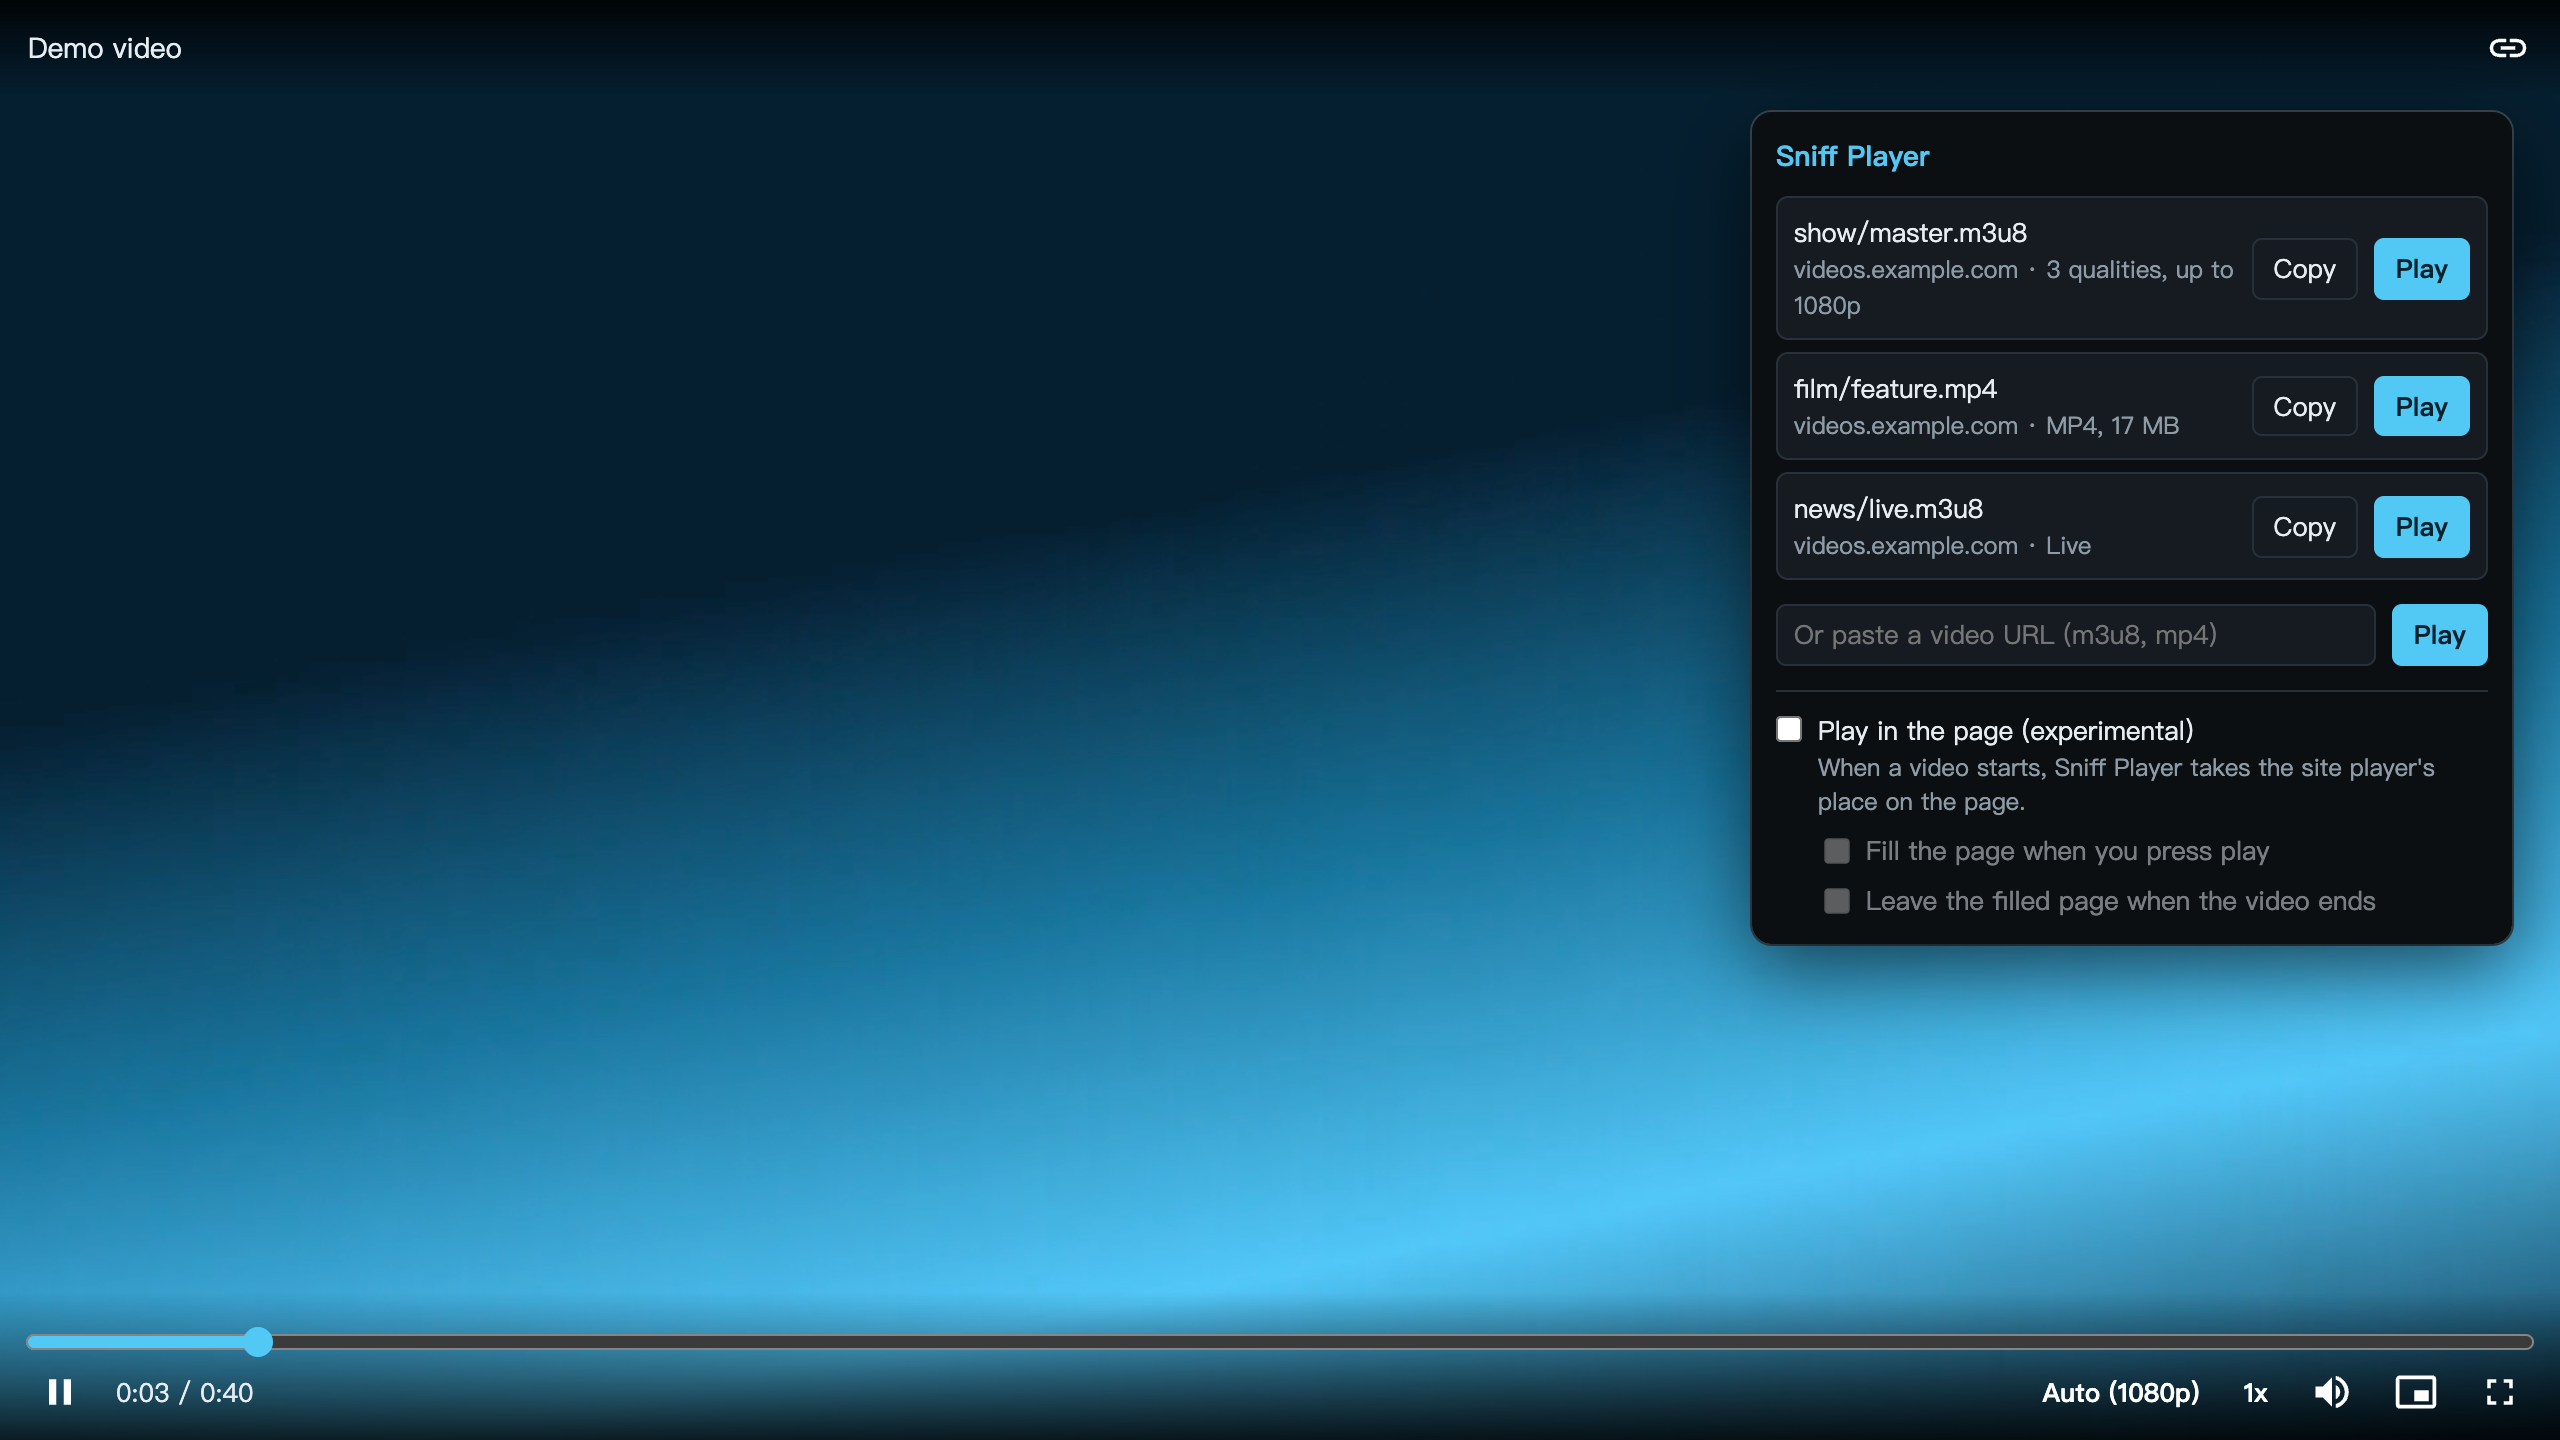
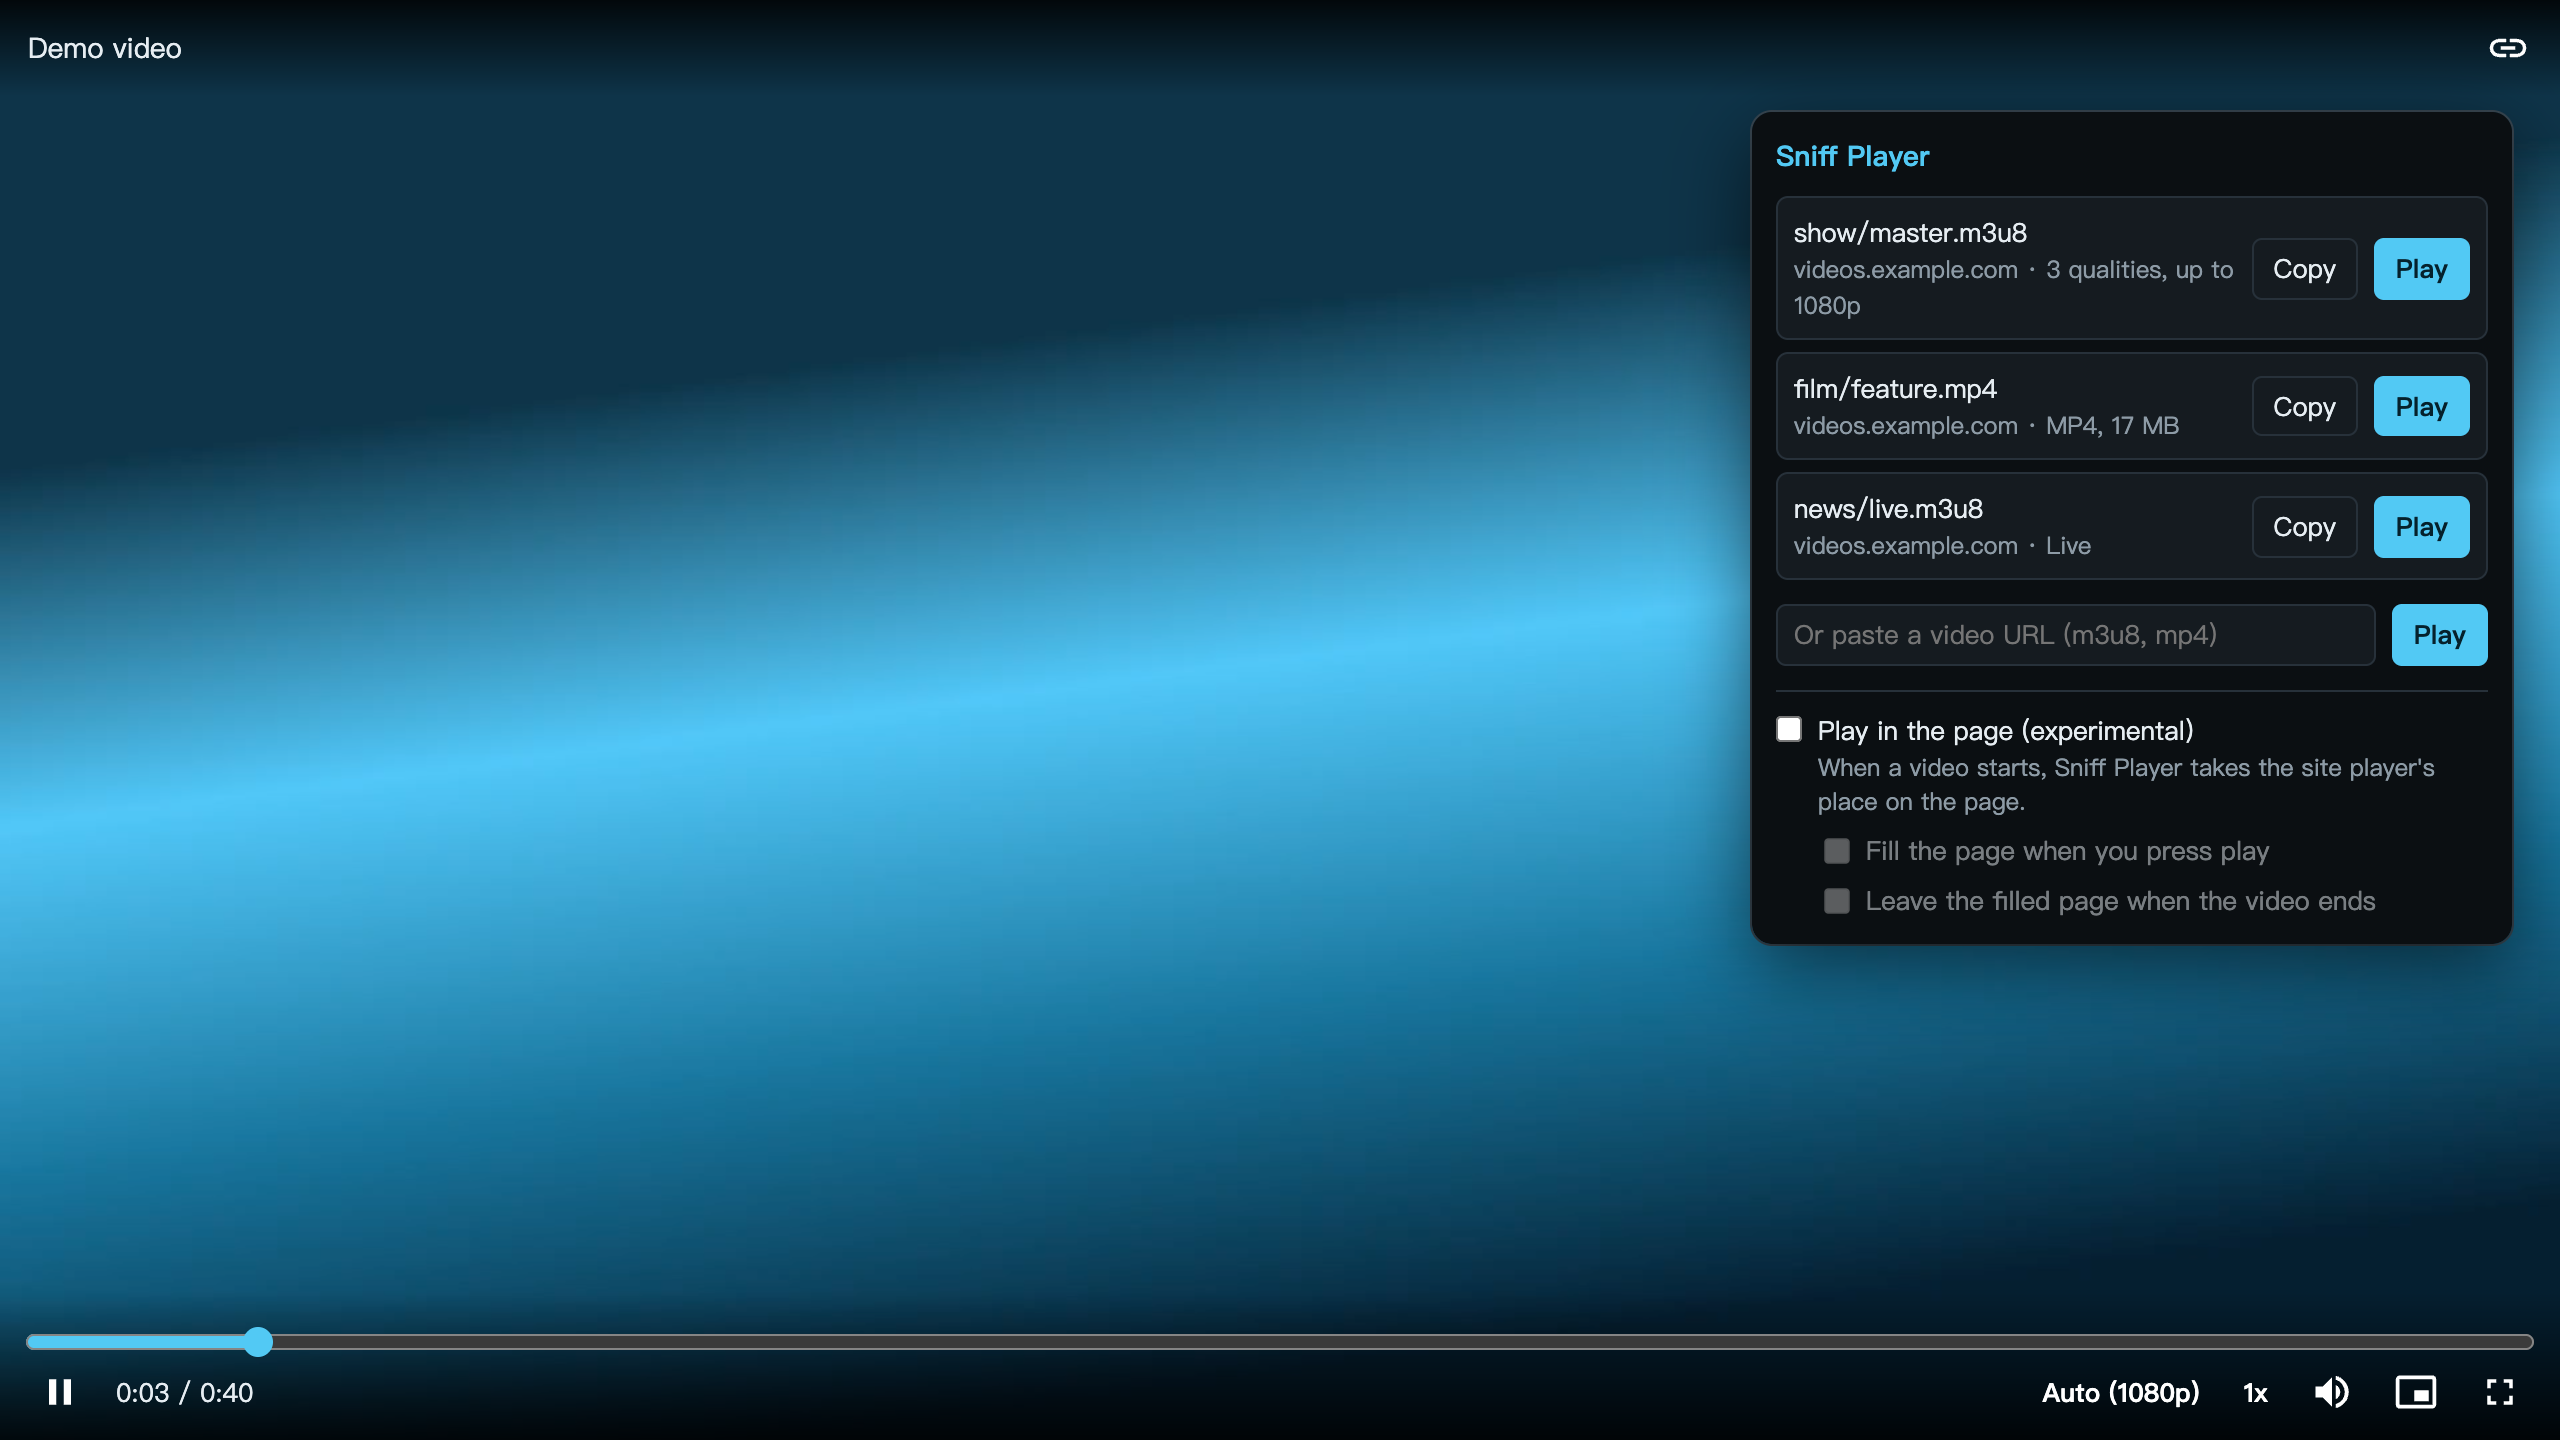
Play in the page: works on plain HTTP sites too, where crypto.randomUUID doesn't exist and the swap stopped with the site's video paused; a screenshot of it in the features: embed.js, docs/FEATURES*, .github/assets/screens

diff --git a/extension/embed.js b/extension/embed.js
@@ -29,6 +29,9 @@
     }
   };
 
+  // crypto.randomUUID exists only on HTTPS pages; getRandomValues works on plain HTTP too.
+  const randomId = () => Array.from(crypto.getRandomValues(new Uint8Array(16)), (b) => b.toString(16).padStart(2, '0')).join('');
+
   // Attributes rather than classes, because sites rewrite the class lists of their own players.
   const sheet = new CSSStyleSheet();
   sheet.replaceSync(`
@@ -188,7 +191,7 @@
     video.addEventListener('play', keepPaused);
 
     const host = document.createElement('div');
-    const id = crypto.randomUUID();
+    const id = randomId();
     host.setAttribute('data-sniff-player', id);
     host.tabIndex = -1;
     // In the constructed sheet rather than inline, which a page's style-src policy can block.
@@ -338,7 +341,7 @@
   // in both channels: the worker vouches for it, and postMessage shows the frame.
   function askParent(kind) {
     if (!inFrame) return;
-    const token = crypto.randomUUID();
+    const token = randomId();
     tellWorker({ type: 'vouch', token });
     window.parent.postMessage({ tag: FRAME_TAG, kind, token }, '*');
   }

diff --git a/docs/FEATURES.md b/docs/FEATURES.md
@@ -46,6 +46,10 @@ Off by default. Turn it on with the checkbox at the bottom of the list. When a v
 - **Back to the site's player.** A button on the bar, at the point you reached. Sniff Player then leaves that frame alone until it goes to another page.
 - **When it does nothing.** The script that swaps the player runs in a page only once a video is found there. Some sites rebuild their player, and Sniff Player then gives the place back to the site.
 
+<p align="center">
+  <img src="../.github/assets/screens/inpage-en.png" alt="Sniff Player playing a video on a made-up site, in the place of the site's own player">
+</p>
+
 ## When a video can't play
 
 The player says why, in place of a black screen, and offers a retry.
